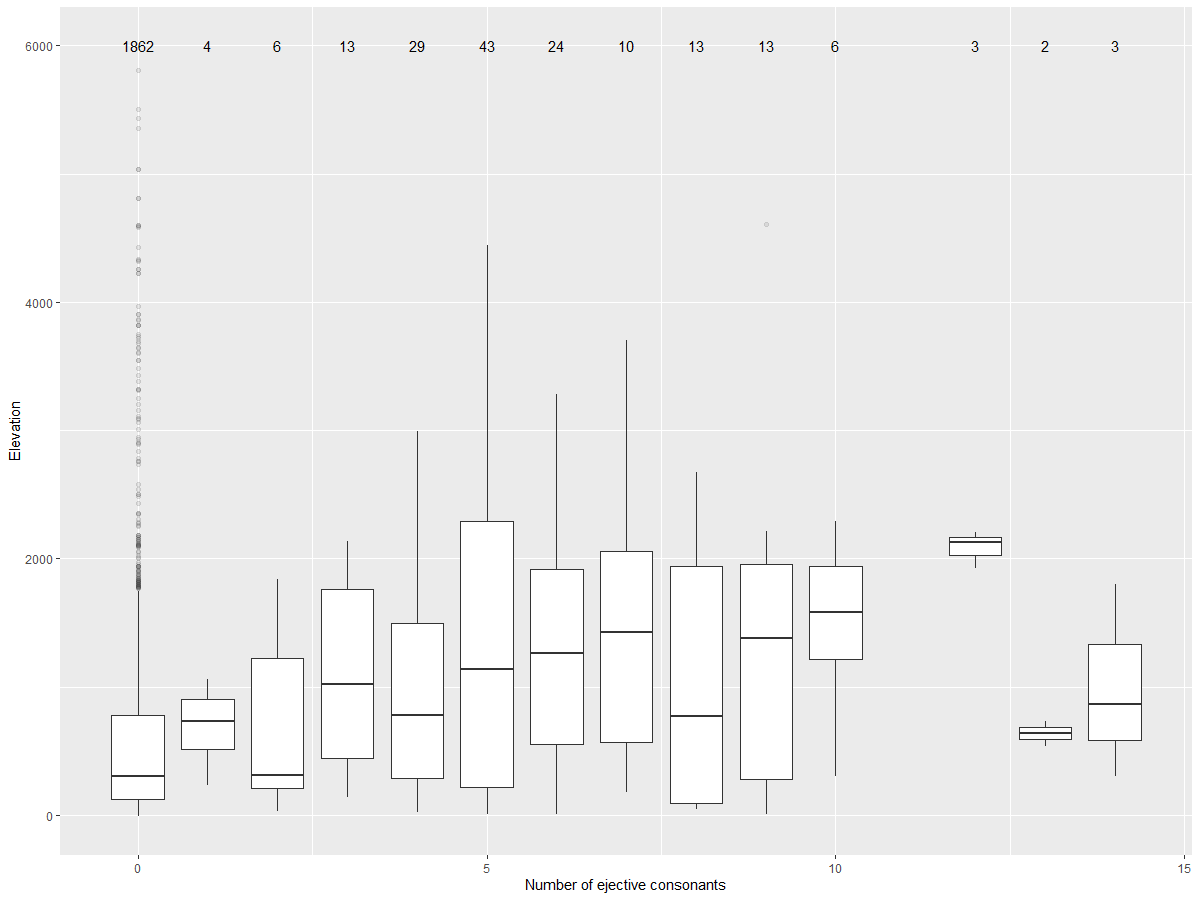
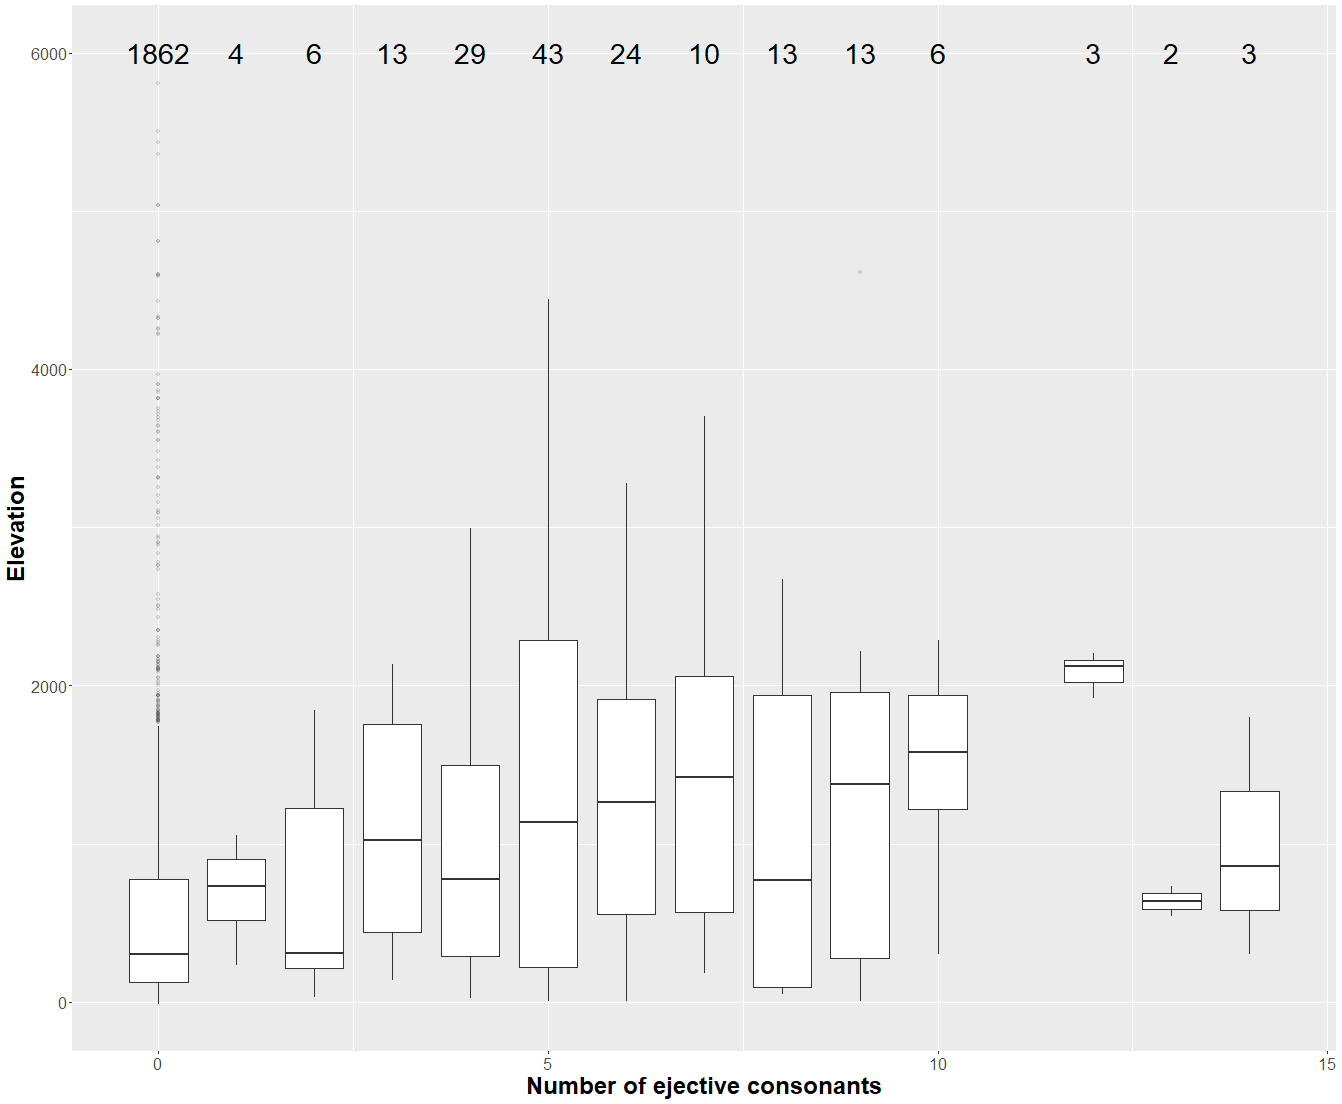
Add files via upload

diff --git a/Maps and descriptive statistics/Maps_and_descriptive_statistics.md b/Maps and descriptive statistics/Maps_and_descriptive_statistics.md
@@ -1,7 +1,7 @@
 Production of maps and plots for descriptive statistics
 ================
 Matthias Urban
-21 Dezember, 2020
+23 Dezember, 2020
 
 # Required packages
 
@@ -54,7 +54,7 @@ elevdata <- mutate(elevdata, NonMarginal02 = as.logical(Nonmarginal_Ejective), N
 ## Ejectives
 
 ``` r
-png(file="fig1_pacific_centered.tiff", width=2013, height = 1656)
+tiff(file="fig1_pacific_centered.tiff", width=2013, height = 1656)
 map <- openmap(c(78, -180), c(-62, 180), type = "nps", minNumTiles = 100)
 map <- openproj(map, projection = "+init=epsg:3832")
 plot(map)
@@ -73,7 +73,7 @@ dev.off()
 ## Uvulars
 
 ``` r
-png(file="fig2_pacific_centered.tiff", width=2013, height = 1656)
+tiff(file="fig2_pacific_centered.tiff", width=2013, height = 1656)
 map <- openmap(c(78, -180), c(-62, 180), type = "nps", minNumTiles = 100)
 map <- openproj(map, projection = "+init=epsg:3832")
 plot(map)
@@ -448,28 +448,30 @@ aggregate(NonMarginal02 ~ macroarea2, FUN = length, data = noejectives)
 nobservations <- function(x) {
   return(c(y = 6000, label = length(x)))
 }
-
+png(file="fig3b_updated.png", width=1342, height=1104)
 elevdata %>%
   filter(Nonmarginal_Uvular < 15) %>%
   ggplot(aes(group = Nonmarginal_Uvular, x = Nonmarginal_Uvular, y = elevation)) +
   geom_boxplot(outlier.alpha = 0.1) +
-  stat_summary(fun.data = nobservations, geom = "text", fun = median) +
-  labs(x = "Number of uvular consonants", y = "Elevation")
+  stat_summary(fun.data = nobservations, geom = "text", fun = median, size=10) +
+  labs(x = "Number of uvular consonants", y = "Elevation") +
+  theme(axis.text=element_text(size=16),
+        axis.title=element_text(size=24,face="bold"))
+dev.off()
 ```
-
-![](Maps_and_descriptive_statistics_files/figure-gfm/unnamed-chunk-22-1.png)<!-- -->
 
 ``` r
 nobservations <- function(x) {
   return(c(y = 6000, label = length(x)))
 }
-
+png(file="fig3a_updated.png", width=1342, height=1104)
 elevdata %>%
   filter(Nonmarginal_Ejective < 15) %>%
   ggplot(aes(group = Nonmarginal_Ejective, x = Nonmarginal_Ejective, y = elevation)) +
   geom_boxplot(outlier.alpha = 0.1) +
-  stat_summary(fun.data = nobservations, geom = "text", fun = median) +
-  labs(x = "Number of ejective consonants", y = "Elevation")
+  stat_summary(fun.data = nobservations, geom = "text", fun = median, size=10) +
+  labs(x = "Number of ejective consonants", y = "Elevation")+
+  theme(axis.text=element_text(size=16),
+        axis.title=element_text(size=24,face="bold"))
+dev.off()
 ```
-
-![](Maps_and_descriptive_statistics_files/figure-gfm/unnamed-chunk-23-1.png)<!-- -->
